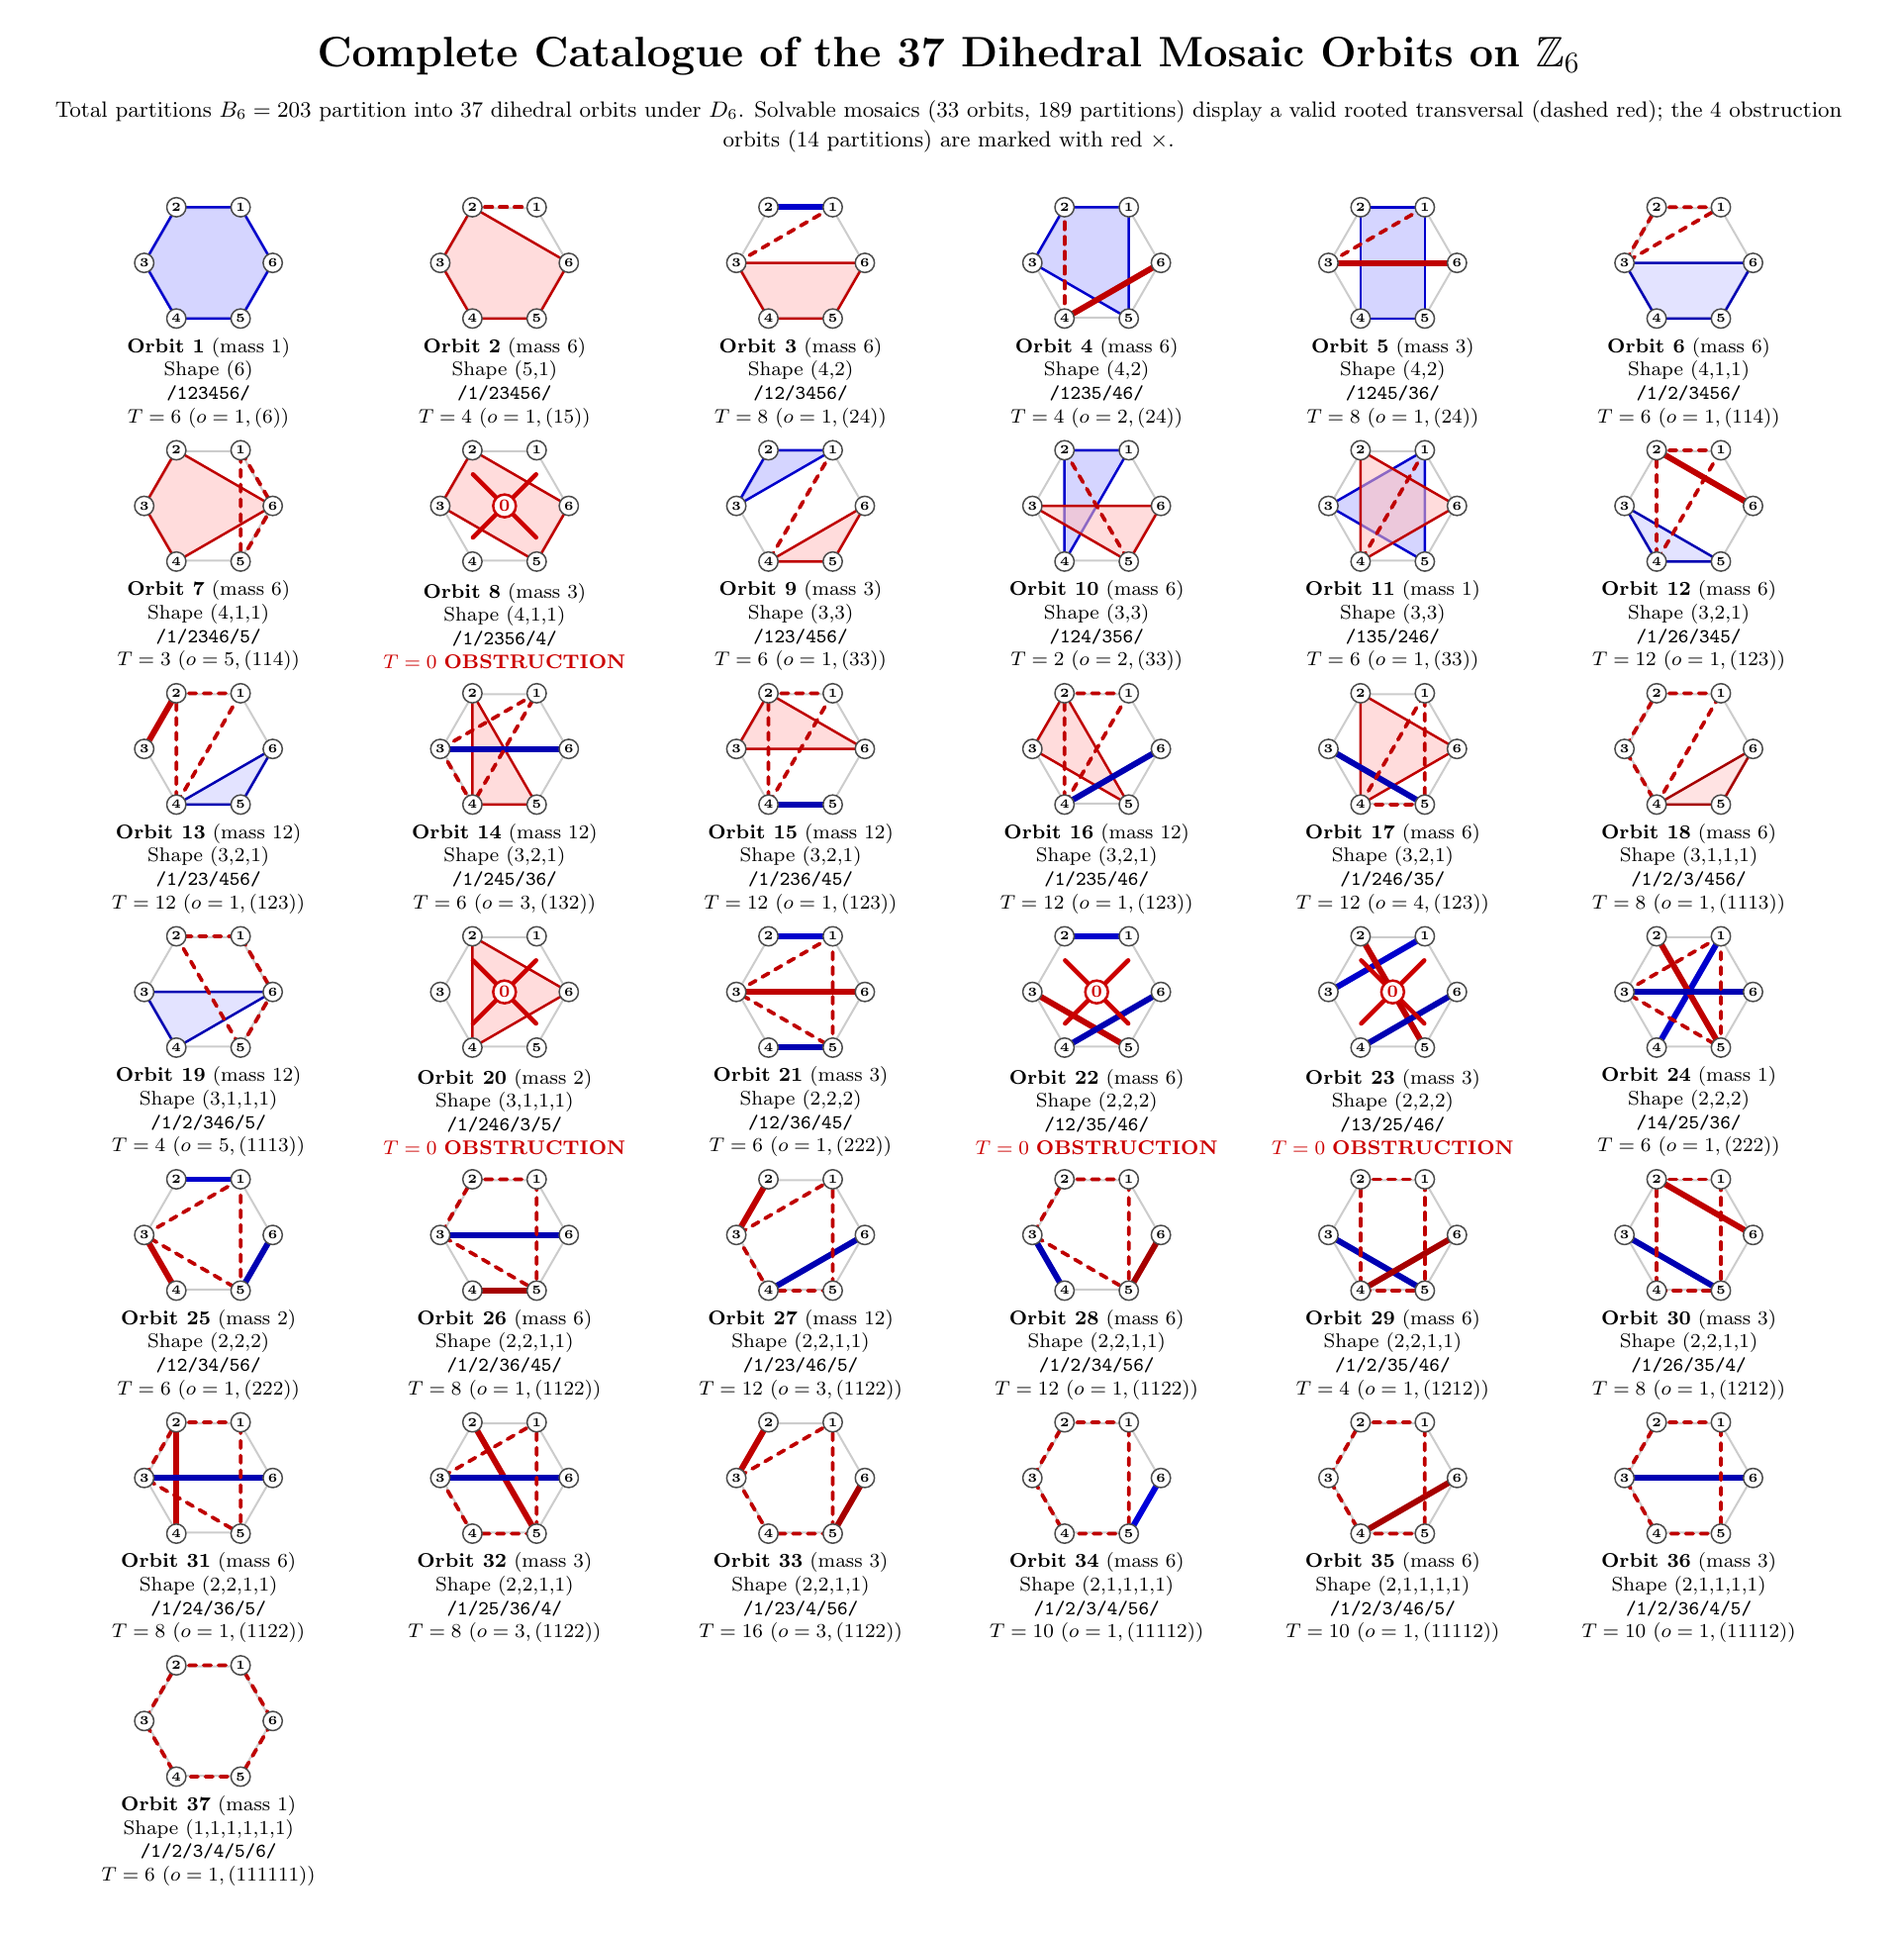
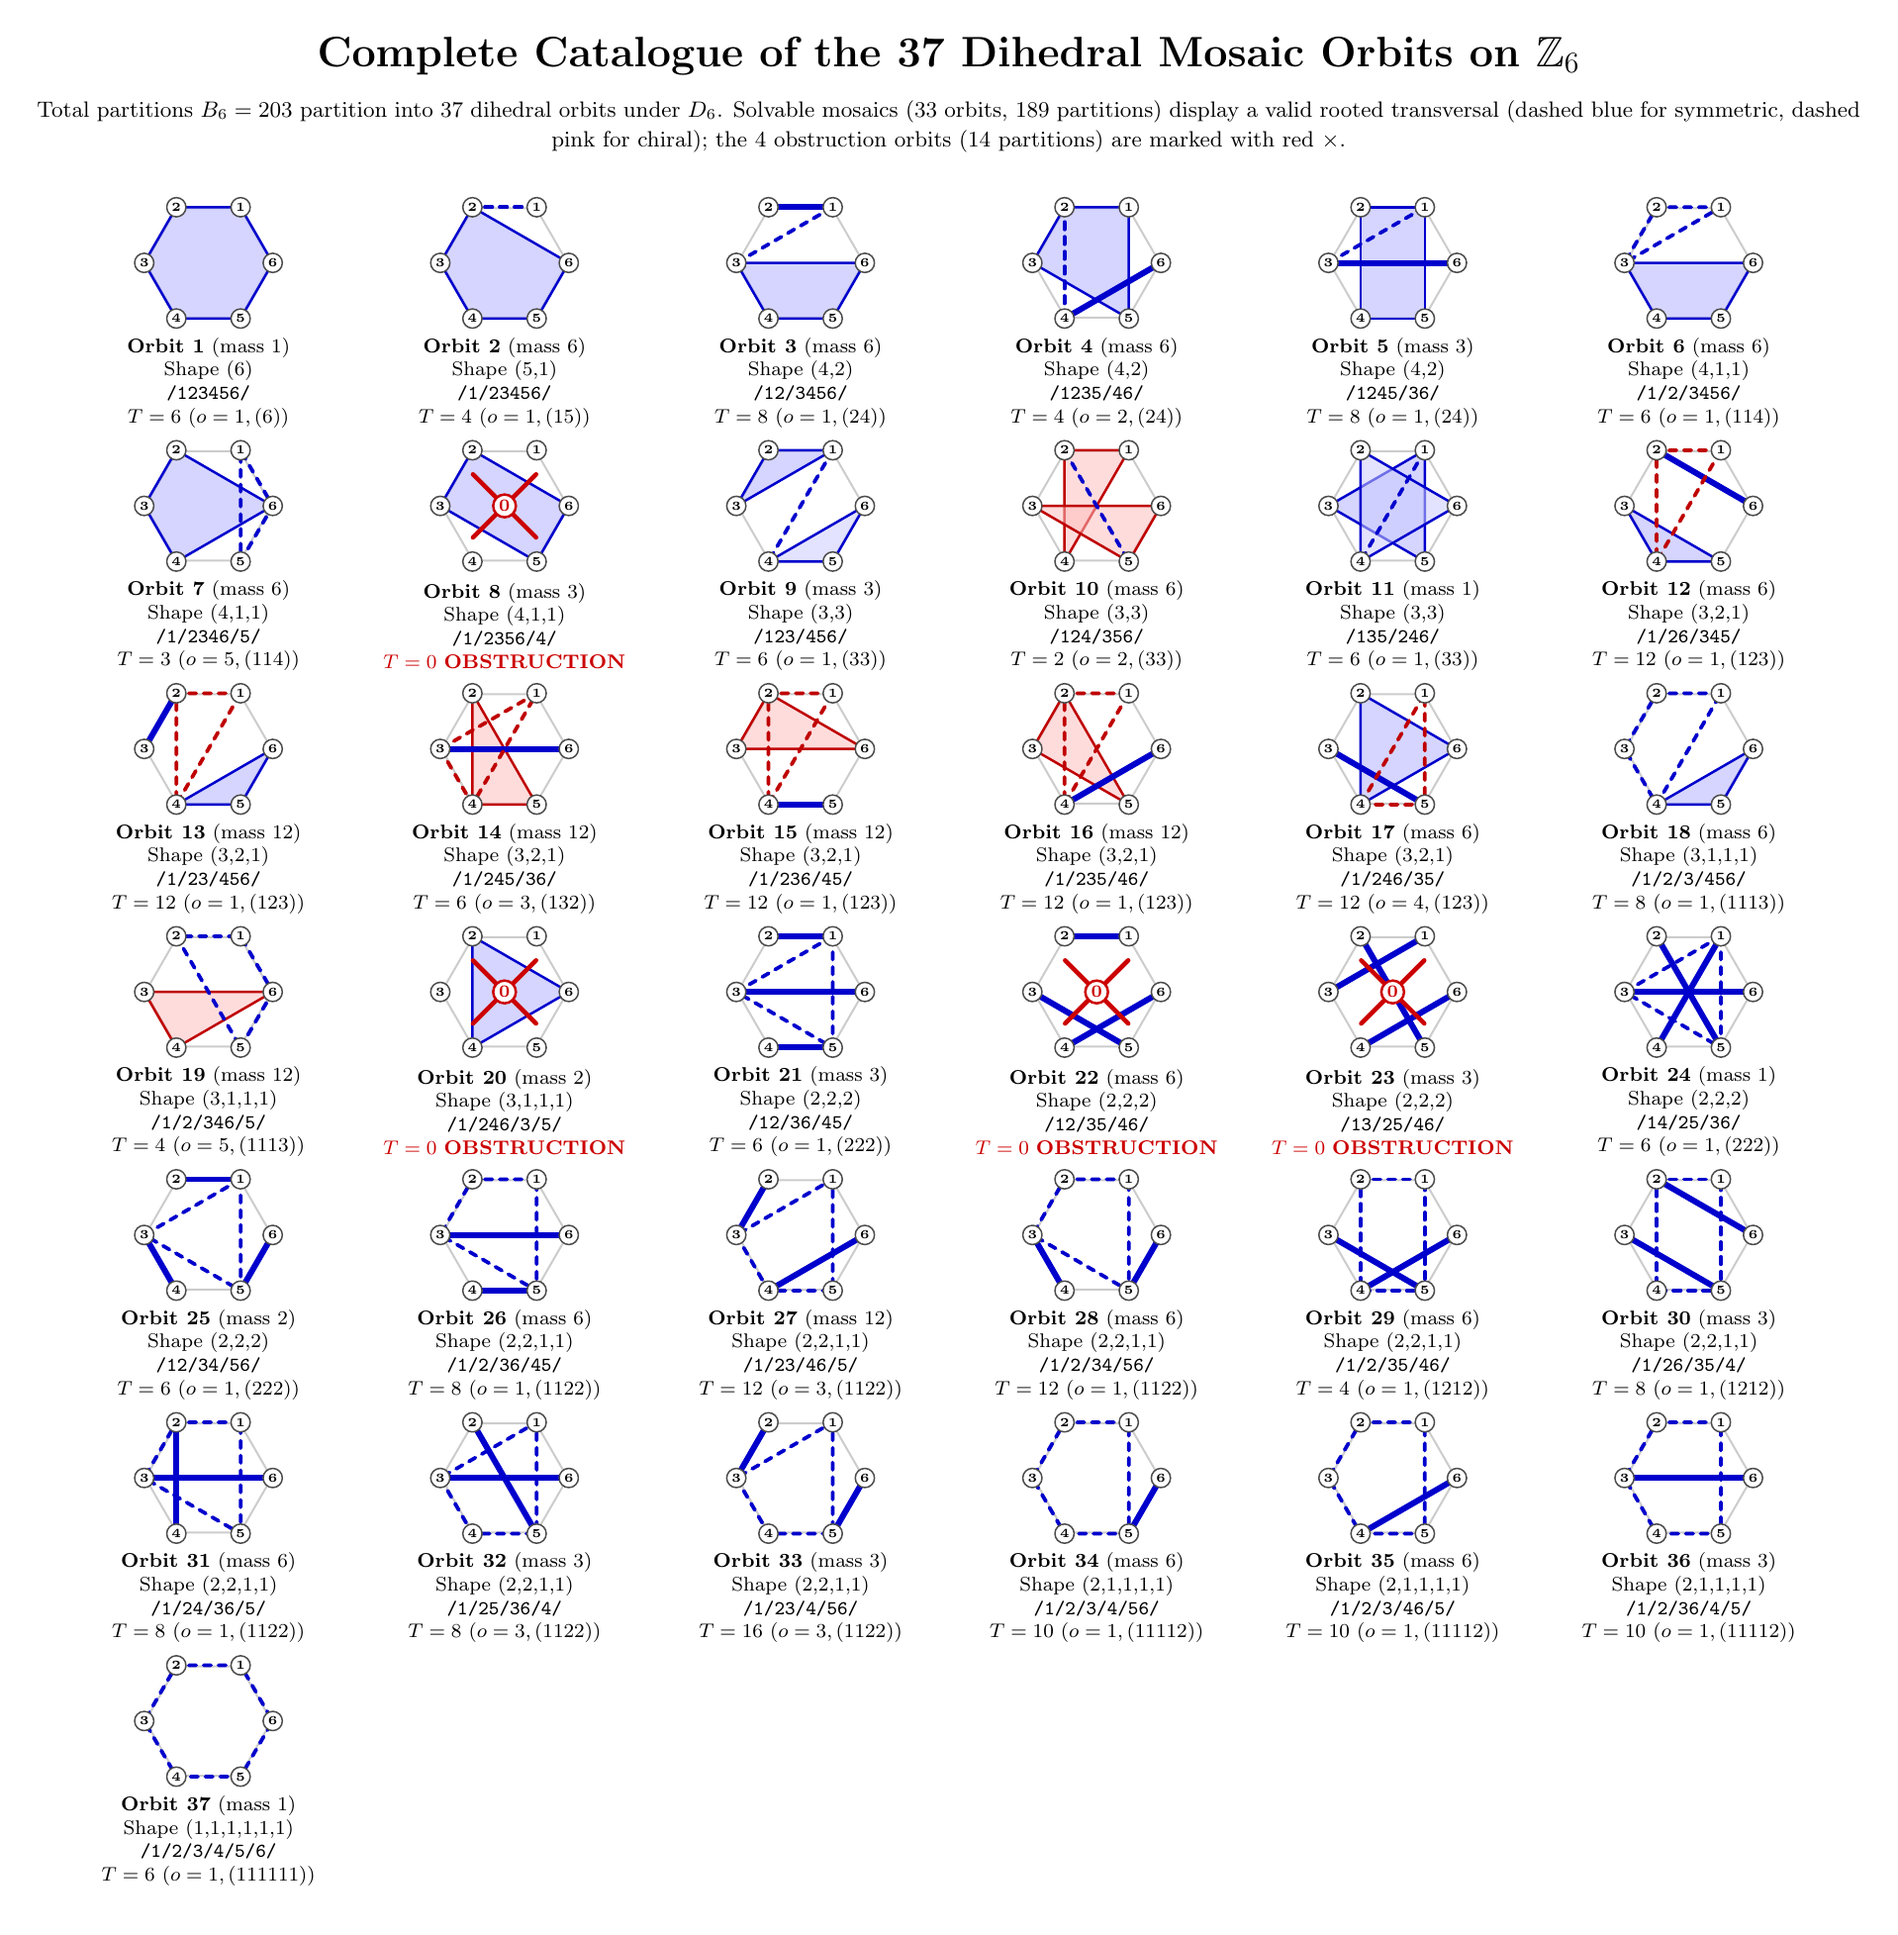
Add literature precursors section and update catalogue diagrams with strict symmetry coloring

diff --git a/README.md b/README.md
@@ -54,6 +54,32 @@ $$
 
 The pair $(o, \gamma)$ is termed a **rooted isotypic composition transversal** of $\mathcal{M}$.
 
+### Combinatorial Context and Literature Precursors
+
+The concept of a transversal (or System of Distinct Representatives, SDR) has a rich history across discrete mathematics, against which the specific geometry of isotypic composition transversals can be situated:
+
+1. **Classical Systems of Distinct Representatives (Hall, Rota, Mirsky)**:  
+   In classical transversal theory and matroid theory (Hall's Marriage Theorem, 1935; Rota, 1964; Mirsky, 1971), a transversal of a family of subsets requires only that each subset contributes one representative. For a set partition $\mathcal{M} = \lbrace m_1, \dots, m_k \rbrace$ where blocks are mutually disjoint, Hall's condition holds trivially, and the number of unconstrained transversals is simply the product of block cardinalities:
+   $N_{\mathrm{classical}} = \prod_{i=1}^k |m_i| = \prod_{j=1}^k \lambda_j$.
+   In this classical setting, every partition trivially admits solutions, and obstructions cannot exist.
+
+2. **Coset Transversals in Group Theory**:  
+   In abstract group theory, transversals of group partitions are studied primarily when the partition consists of the cosets of a subgroup $H \le \mathbb{Z}_n$. This classical setting is restricted to uniform partition shapes $(d^{n/d})$ and does not consider non-uniform partition shapes $\lambda \vdash n$ or cyclic step sequence orderings.
+
+3. **Latin Square and Cayley Table Transversals (Hall–Paige Conjecture)**:  
+   A celebrated transversal problem in group theory concerns transversals in the Cayley table of a finite group (the Hall–Paige conjecture, formulated in 1955 and proved by Wilcox, Evans, and Bray in 2009). These transversals represent selections in a two-dimensional multiplication table rather than 1D cyclic polygon embeddings.
+
+4. **Additive Combinatorics (Snevily's Conjecture & Arsovski's Theorem)**:  
+   Snevily's conjecture (1999, proved by Bodan Arsovski in 2011) establishes that for two subsets $A, B \subset \mathbb{Z}_n$ of equal cardinality $k$ ($n$ odd), there exists a bijection $\pi \colon A \to B$ whose sums $a + \pi(a)$ are distinct. While addressing cyclic groups, it studies pairwise subset addition rather than the global partitioning of the lattice.
+
+5. **Independent Transversals in Hypergraphs (Alon, Loh, Sudakov)**:  
+   In extremal combinatorics, an independent transversal is a transversal that forms an independent set in a supporting graph (Alon, 1994; Loh and Sudakov, 2008). This is a graph-colouring condition without metric cyclic step requirements.
+
+**The Isotypic Difference**:  
+In an **isotypic composition transversal**, the transversal is constrained to be an inscribed cyclic polygon $G(o, \gamma) \subset \mathbb{Z}_n$ whose cyclic stride differences $(\gamma_1, \dots, \gamma_k)$ must form an exact permutation of the block cardinalities $(|m_1|, \dots, |m_k|)$. This metric and algebraic coupling to the underlying partition capacities introduces rigid modular constraints:
+- **Obstructions $Z(n)$**: Stride-resonance coset trapping, parity deficits on bipartite sub-lattices, and metric distance spectrum gaps can completely forbid any valid transversal, producing the non-trivial obstruction landscape $Z(n)$.
+- **Closed-Form Counting $T(n)$**: Despite individual obstructions, reversing summation order via bipartite incidence duality completely decouples the metric geometry in aggregate, yielding the exact closed-form Enumeration Theorem.
+
 ---
 
 ## 2. The Enumeration Theorem
